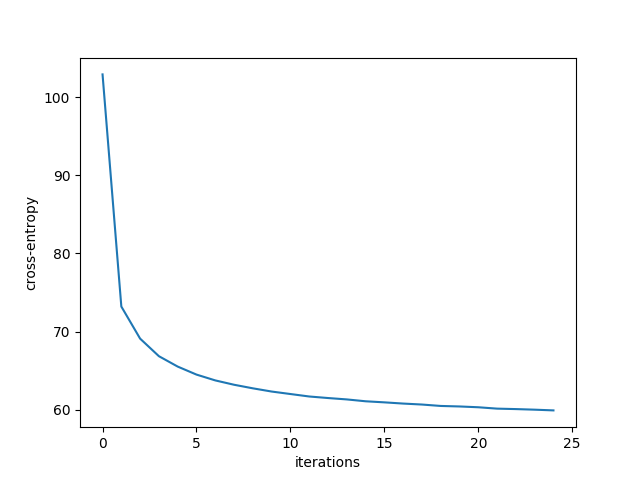
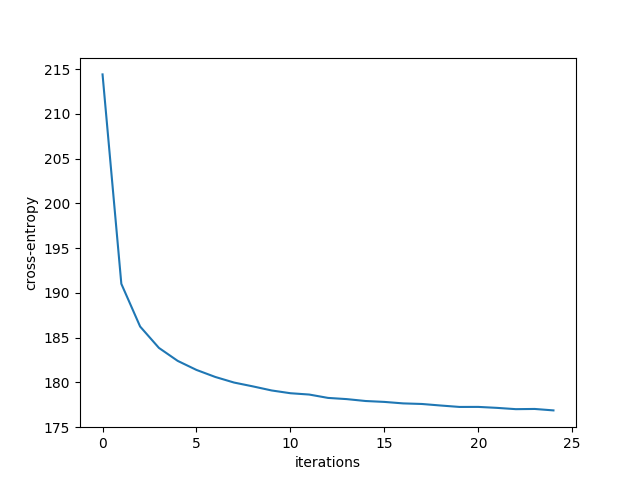
non working better code

diff --git a/project_2/src/part_b/main.py b/project_2/src/part_b/main.py
@@ -42,13 +42,13 @@ batch_size = 128
 W1 = init_weights(28*28, 900)
 b1 = init_bias(900)
 
-b1_prime = init_bias(900)
+b1_prime = init_bias(28*28)
 W1_prime = W1.transpose()
 #second layer
 W2 = init_weights(900, 625)
 b2 = init_bias(625)
 
-b2_prime = init_bias(625)
+b2_prime = init_bias(900)
 W2_prime = W2.transpose()
 #third layer
 W3 = init_weights(625, 400)
@@ -68,11 +68,15 @@ y1 = T.nnet.sigmoid(T.dot(tilde_x, W1) + b1)
 z1 = T.nnet.sigmoid(T.dot(y1, W1_prime) + b1_prime)
 cost1 = - T.mean(T.sum(x * T.log(z1) + (1 - x) * T.log(1 - z1), axis=1))
 
-y2 = T.nnet.sigmoid(T.dot(y1, W2) + b2)
+tilde_y1 = theano_rng.binomial(size=y1.shape, n=1, p=1 - corruption_level,
+                              dtype=theano.config.floatX)*y1
+y2 = T.nnet.sigmoid(T.dot(tilde_y1, W2) + b2)
 z2 = T.nnet.sigmoid(T.dot(y2, W2_prime) + b2_prime)
 cost2 = - T.mean(T.sum(y1 * T.log(z2) + (1 - y1) * T.log(1 - z2), axis=1))
 
-y3 = T.nnet.sigmoid(T.dot(y2, W3) + b3)
+tilde_y2 = theano_rng.binomial(size=y2.shape, n=1, p=1 - corruption_level,
+                              dtype=theano.config.floatX)*y2
+y3 = T.nnet.sigmoid(T.dot(tilde_y2, W3) + b3)
 z3 = T.nnet.sigmoid(T.dot(y3, W3_prime) + b3_prime)
 cost3 = - T.mean(T.sum(y2 * T.log(z3) + (1 - y2) * T.log(1 - z3), axis=1))
 
@@ -82,18 +86,22 @@ grads1 = T.grad(cost1, params1)
 updates1 = [(param1, param1 - learning_rate * grad1)
            for param1, grad1 in zip(params1, grads1)]
 train_da1 = theano.function(inputs=[x], outputs = cost1, updates = updates1, allow_input_downcast = True)
+compute_da1 = theano.function(inputs=[x], outputs = [y1, z1], updates = None, allow_input_downcast = True)
+
 #second layer
 params2 = [W2, b2,b2_prime]
 grads2 = T.grad(cost2, params2)
 updates2 = [(param2, param2 - learning_rate * grad2)
            for param2, grad2 in zip(params2, grads2)]
 train_da2 = theano.function(inputs=[y1], outputs = cost2, updates = updates2, allow_input_downcast = True)
+compute_da2 = theano.function(inputs=[y1], outputs = [y2, z2], updates = None, allow_input_downcast = True)
 #third layer
 params3 = [W3, b3,b3_prime]
 grads3 = T.grad(cost3, params3)
 updates3 = [(param3, param3 - learning_rate * grad3)
            for param3, grad3 in zip(params3, grads3)]
 train_da3 = theano.function(inputs=[y2], outputs = cost3, updates = updates3, allow_input_downcast = True)
+compute_da3 = theano.function(inputs=[y2], outputs = [y3, z3], updates = None, allow_input_downcast = True)
 
 
 
@@ -114,7 +122,9 @@ for epoch in range(training_epochs):
     # go through trainng set
     c = []
     for start, end in zip(range(0, len(trX), batch_size), range(batch_size, len(trX), batch_size)):
-        c.append(train_da1(trX[start:end]))
+
+        cost = train_da1(trX[start:end])
+        c.append(cost)
     d1.append(np.mean(c, dtype='float64'))
     print(d[epoch])
 
@@ -124,7 +134,9 @@ for epoch in range(training_epochs):
     # go through trainng set
     c = []
     for start, end in zip(range(0, len(trX), batch_size), range(batch_size, len(trX), batch_size)):
-        c.append(train_da2(trX[start:end]))
+        yy1, _ = compute_da1(trX[start:end])
+        cost = train_da2(yy1)
+        c.append(cost)
     d2.append(np.mean(c, dtype='float64'))
     print(d[epoch])
 
@@ -134,25 +146,100 @@ for epoch in range(training_epochs):
     # go through trainng set
     c = []
     for start, end in zip(range(0, len(trX), batch_size), range(batch_size, len(trX), batch_size)):
-        c.append(train_da3(trX[start:end]))
+        yy1, _ = compute_da1(trX[start:end])
+        yy2, _ = compute_da2(yy1)
+        cost = train_da3(yy2)
+        c.append(cost)
     d3.append(np.mean(c, dtype='float64'))
     print(d[epoch])
 
+#learning curves
+pylab.figure()
+pylab.plot(range(training_epochs), d1)
+pylab.xlabel('iterations')
+pylab.ylabel('cross-entropy')
+pylab.title('first layer')
+pylab.savefig('firstLayer')
 
+pylab.figure()
+pylab.plot(range(training_epochs), d2)
+pylab.xlabel('iterations')
+pylab.ylabel('cross-entropy')
+pylab.title('second layer')
+pylab.savefig('secondLayer')
 
 pylab.figure()
 pylab.plot(range(training_epochs), d3)
 pylab.xlabel('iterations')
 pylab.ylabel('cross-entropy')
-pylab.savefig('figure_2b_1.png')
+pylab.title('third layer')
+pylab.savefig('thirdLayer')
 
+#weights
 w1 = W1.get_value()
 pylab.figure()
 pylab.gray()
 for i in range(100):
     pylab.subplot(10, 10, i+1); pylab.axis('off'); pylab.imshow(w1[:,i].reshape(28,28))
-pylab.savefig('figure_2b_2.png')
+pylab.title('first layer weights')
+pylab.savefig('firstLayerWeights')
 
+# w2 = W2.get_value()
+# pylab.figure()
+# pylab.gray()
+# for i in range(100):
+#     pylab.subplot(10, 10, i+1); pylab.axis('off'); pylab.imshow(w2[:,i].reshape(28,28))
+# pylab.title('second layer weights')
+# pylab.savefig('secondLayerWeights')
+#
+# w3 = W3.get_value()
+# pylab.figure()
+# pylab.gray()
+# for i in range(100):
+#     pylab.subplot(10, 10, i+1); pylab.axis('off'); pylab.imshow(w3[:,i].reshape(28,28))
+# pylab.title('third layer weights')
+# pylab.savefig('thirdLayerWeights')
+
+#reconstructed images
+tilde_teX = []
+for x in teX[:100]:
+    tilde_x = theano_rng.binomial(size=x.shape, n=1, p=1 - corruption_level, dtype=theano.config.floatX)*x
+    tilde_teX.append(tilde_x)
+
+
+yy1, zz1 = compute_da1(tilde_teX)
+yy2, zz2 = compute_da2(yy1)
+yy3, zz3 = compute_da3(yy2)
+
+
+pylab.figure()
+pylab.gray()
+for i in range(100):
+    pylab.subplot(10, 10, i+1); pylab.axis('off'); pylab.imshow(teX[i,:].reshape(28,28))
+pylab.title('input image first layer')
+pylab.savefig('figure_8.3c_3.png')
+
+
+pylab.figure()
+pylab.gray()
+for i in range(100):
+    pylab.subplot(10, 10, i+1); pylab.axis('off'); pylab.imshow(yy1[i,:].reshape(28,28))
+pylab.savefig('reconstructed image first layer')
+
+pylab.figure()
+pylab.gray()
+for i in range(100):
+    pylab.subplot(10, 10, i+1); pylab.axis('off'); pylab.imshow(yy2[i,:].reshape(28,28))
+pylab.savefig('reconstructed image second layer')
+
+pylab.figure()
+pylab.gray()
+for i in range(100):
+    pylab.subplot(10, 10, i+1); pylab.axis('off'); pylab.imshow(yy3[i,:].reshape(28,28))
+pylab.savefig('reconstructed image third layer')
+
+
+pylab.show()
 
 # print('\ntraining ffn ...')
 # d_ffn, a = [], []
